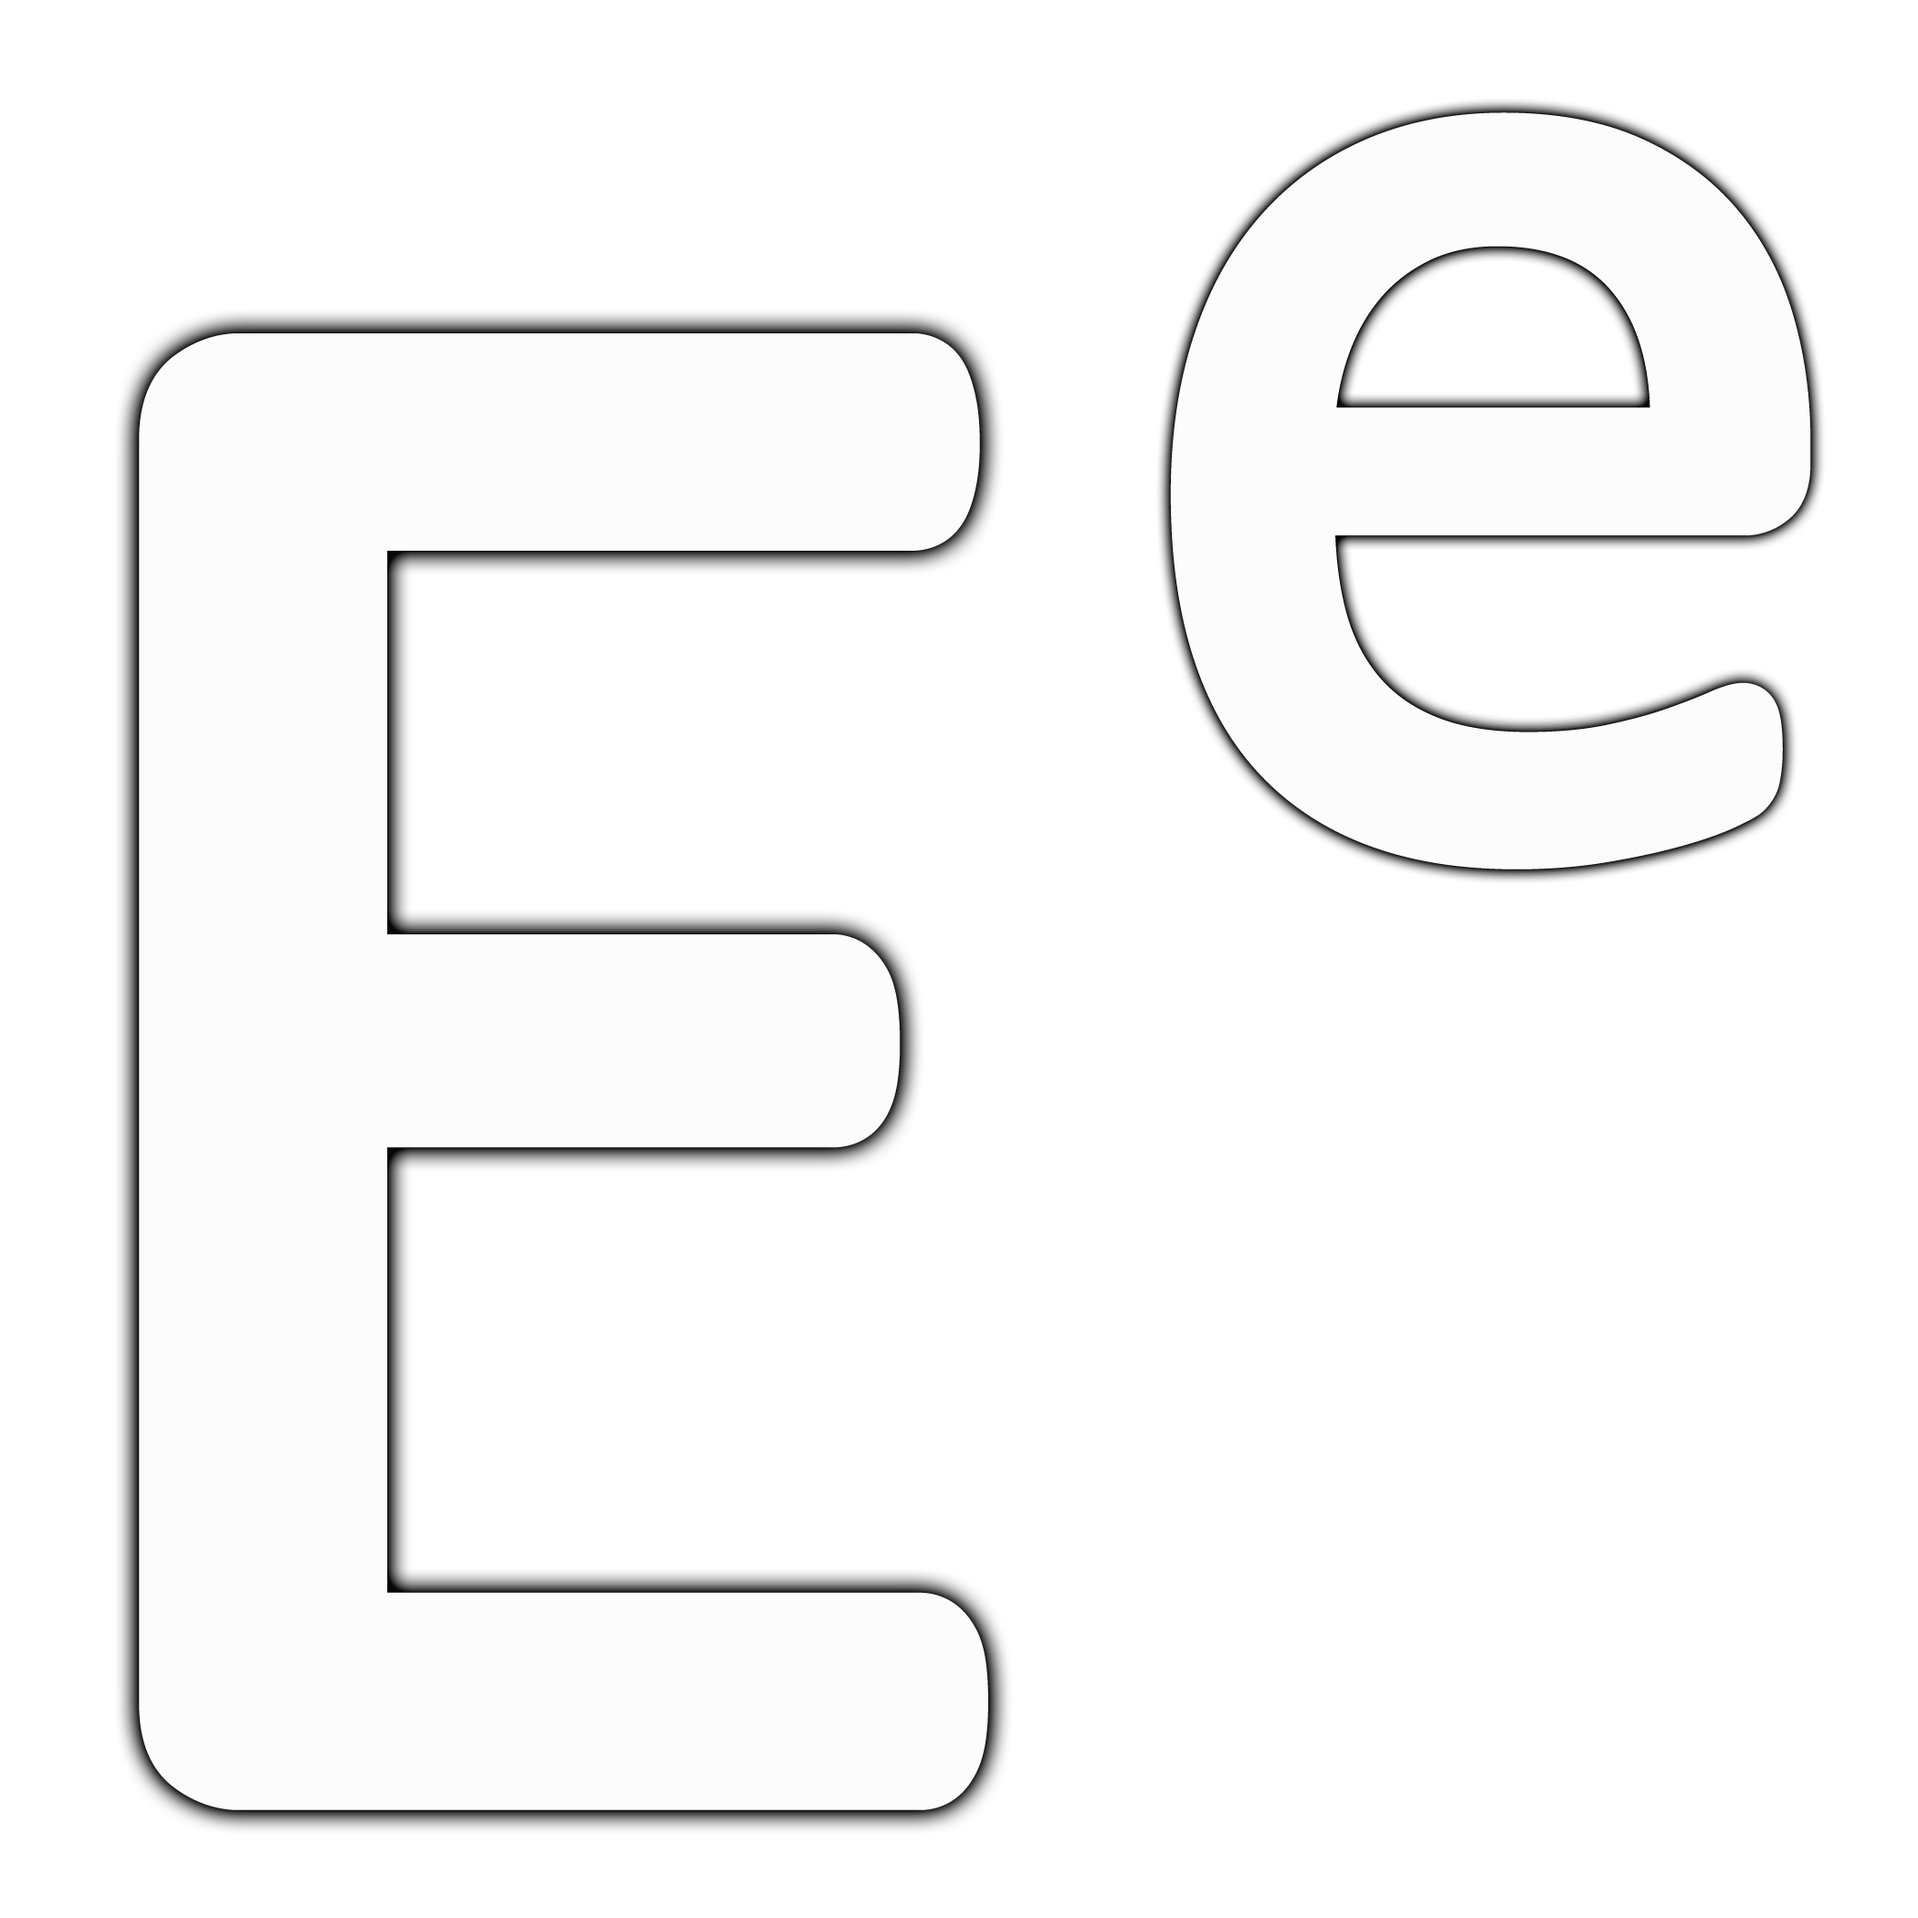
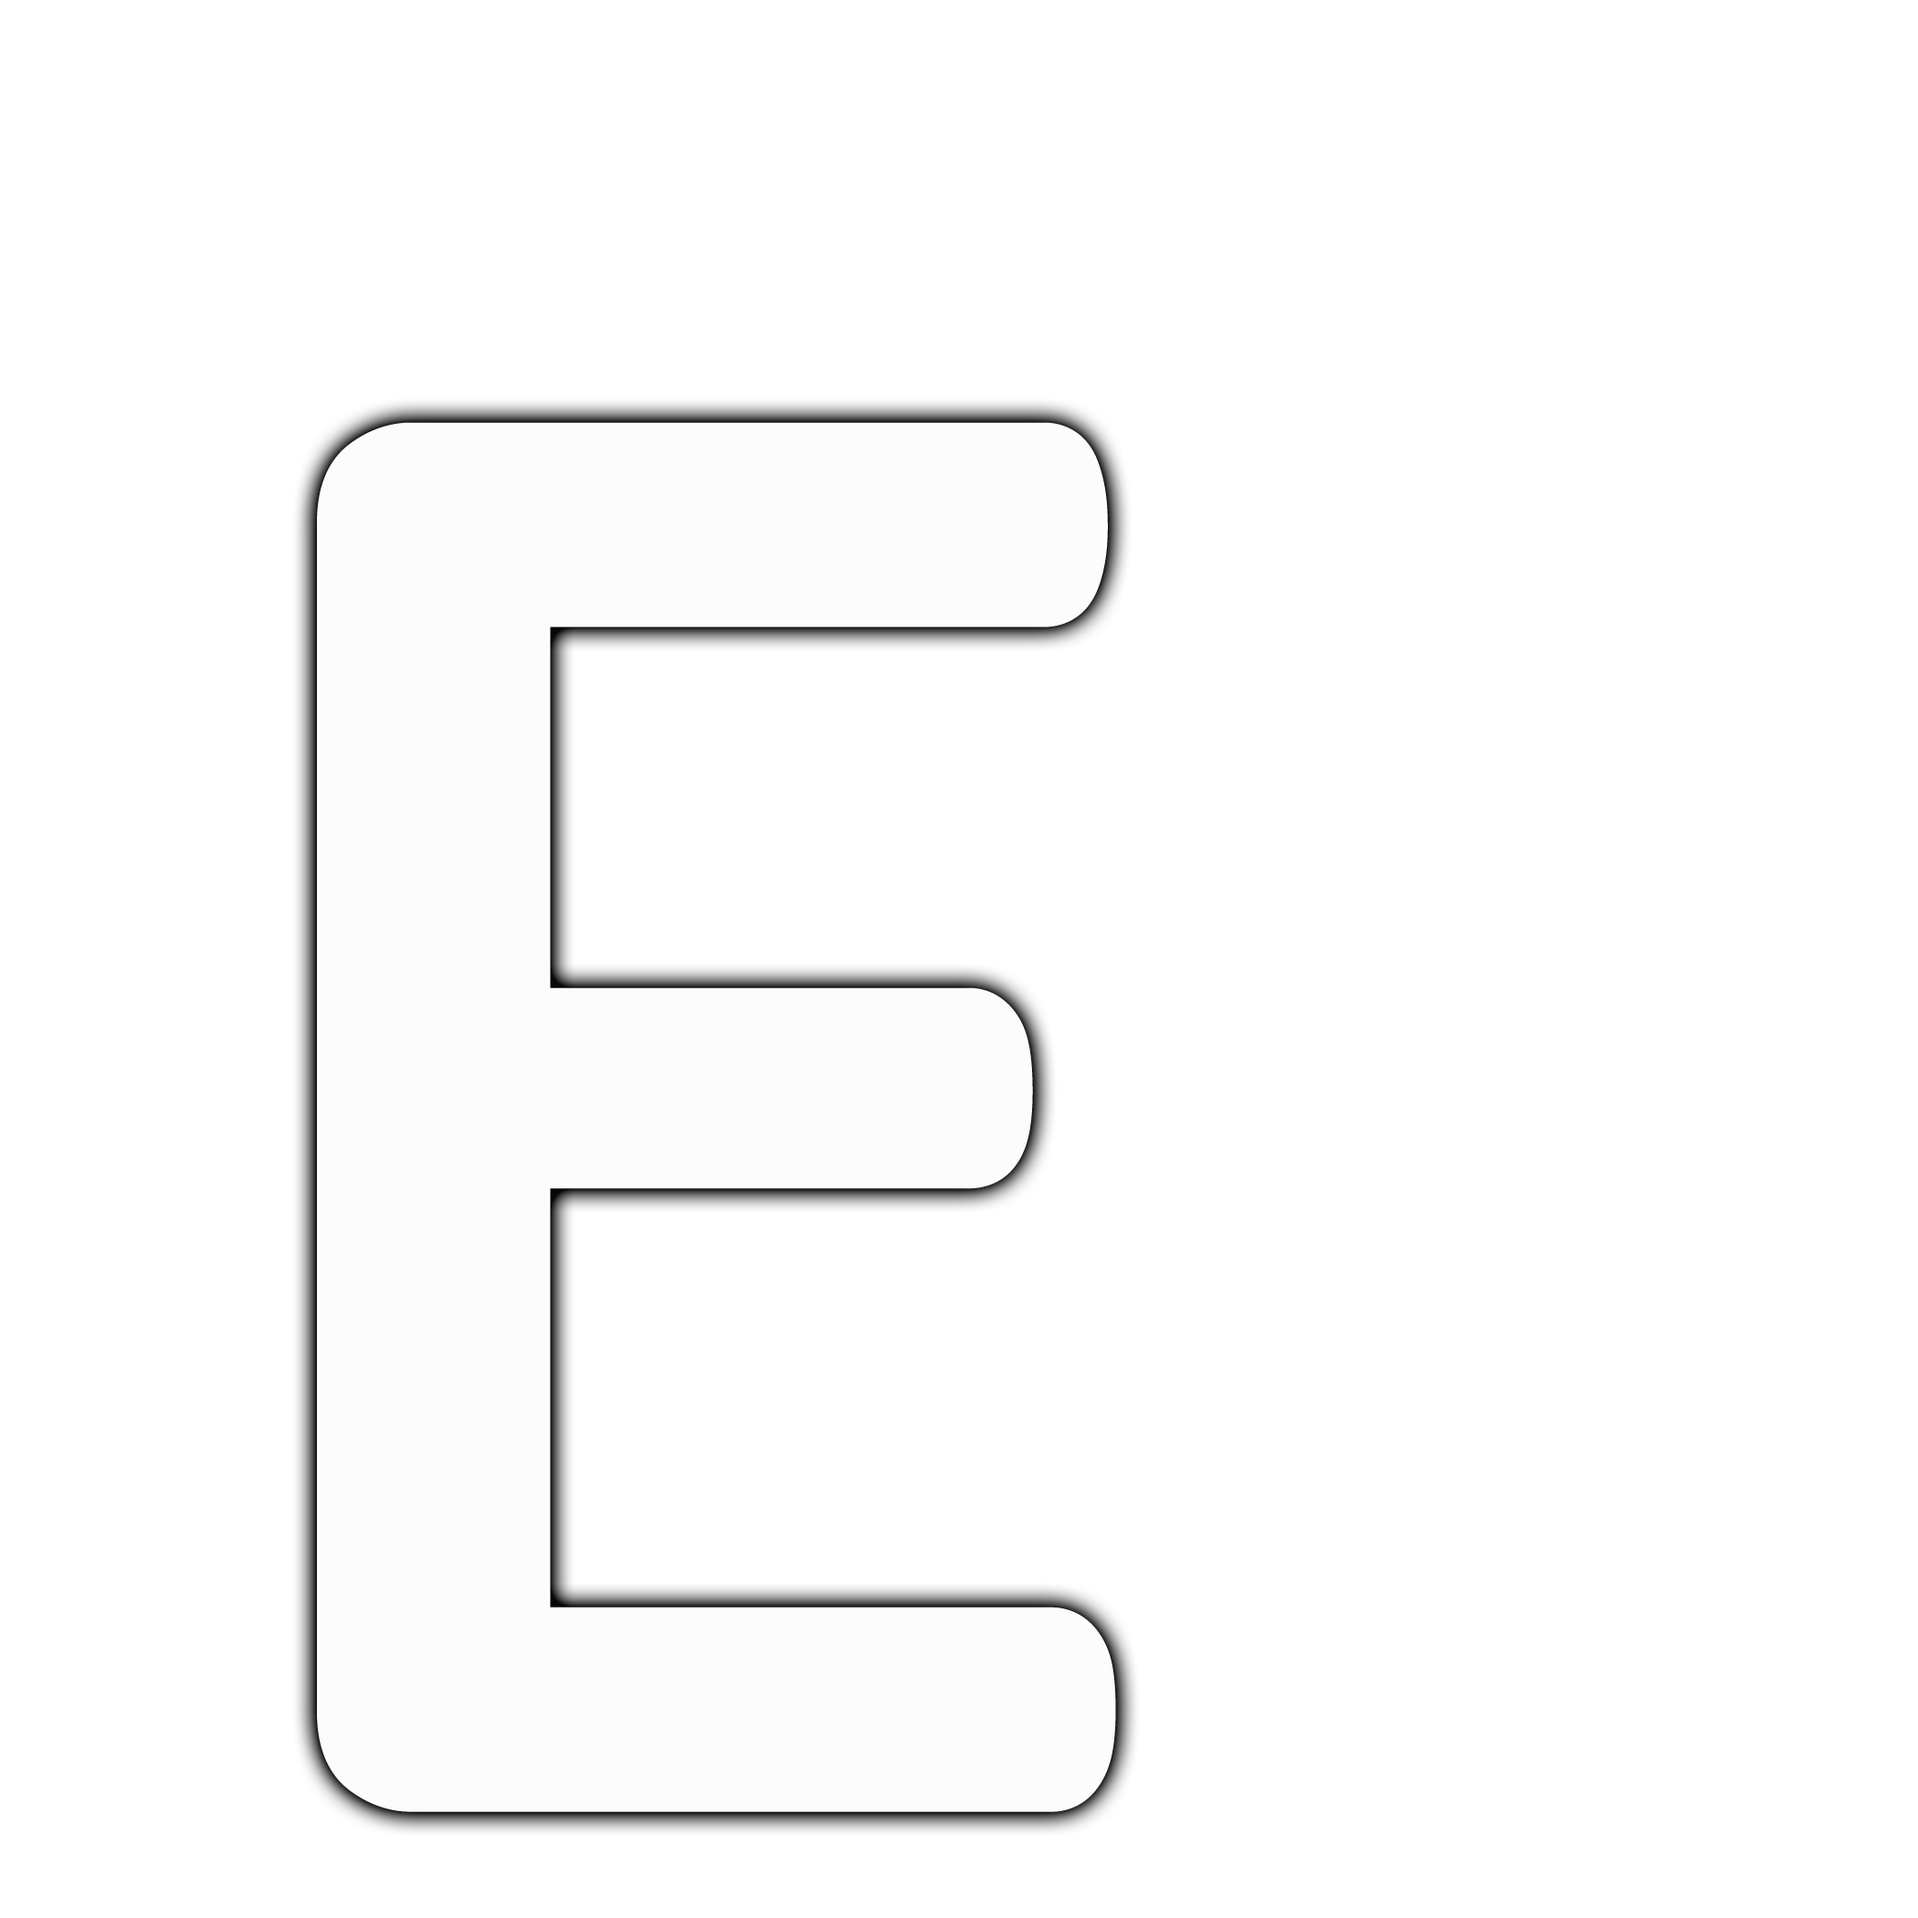
programado la funcion boton siguiente en vocales

diff --git a/vocales.php b/vocales.php
@@ -26,10 +26,11 @@
         <div class="row cuerpo1">
             <div class="col-md-5 col-xs-12 vocal">
                 <div class="tam_miniatura">
-                    <p class="view_vocal">a</p>
+                    <p class="view_vocal" id="vocalActual">a</p>
                 </div>
+                <!-- VOCAL CENTRO -->
                 <div class="espacioVocales">
-                    <a href="#" > <img class="img-responsive"  src="img/vocales/a.png"> </a> 
+                    <!--<a href="#" > <img class="img-responsive"  src="img/vocales/a.png"> </a> -->
                 </div>
 
                 <div class="botones">
@@ -52,33 +53,28 @@
         });
         var productos;
         function listar(){
-                __ajax("prueba1Listar.php", "")
+                __ajax("bd/prueba1Listar.php", "")
                 .done(function(info){                
                      productos = JSON.parse(info); //cambiarlo por curso despues                             
                 });            
         }            
        
         //INICIALIZACION
-        $(".siguiente").html("<a href='#' onClick='siguientes()' > <img class='img-responsive img-circle' src='img/frutas/manzanaVerde.png'> </a>");
+        $(".espacioVocales").html("<a href='#' > <img class='img-responsive' src='img/vocales/a.png'> </a>");
         //INICIO DE CONDICIONES PARA IR CAMBIANDO IMAGENES
        
-        function siguientes(){ 
-            var prueba = document.getElementById("titulos").innerHTML ; //obtengo el valor del texto de la etiqueta para se comparado                                                        
+        function sigVocal(){ 
+            var vocal = document.getElementById("vocalActual").innerHTML ; //obtengo el valor del texto de la etiqueta para se comparado                                                        
             //FRUTA 2
-            if(prueba=="Manzana Roja"){                                                                                                
+            if(vocal=="a"){                                                                                                
                 for(var i in productos.data){                                          
                     var nom = new Array();                                                           
                     nom= [productos.data[i].idImagenes];                                                                                                                   
-                    if(nom==2){                                                             
+                    if(nom==13){                                                             
                         var x=(productos.data[i].nombreImagen);                                                           
-                        $("#titulos").html(x);//SobreEscribe NuevoNombre 
+                        $(".view_vocal").html(x);//SobreEscribe NuevoNombre 
                         //SobrePone ImagenNuevo
-                        $("#fruta").html("<a href='#' onmousedown='voz2.play()'> <img class='img-responsive img-circle' src='img/frutas/manzanaVerde.png'> </a>");
-                        //SobrePone imagen View Minieatura
-                        $(".siguiente").html("<a href='#' onClick='siguientes()' > <img class='img-responsive img-circle' src='img/frutas/Papaya.png'> </a>");
-                        //var frutNex = "Abecedarios";
-                        //$("#cambiar").html(frutNex);                      
-                        $(".anterior").html("<a href='#' > <img class='img-responsive img-circle' src='img/frutas/manzana_roja.png'> </a>");
+                        $(".espacioVocales").html("<a href='#'> <img class='img-responsive' src='img/vocales/e.png'> </a>");                                                                     
                     }                                                                                                 
                 }                                                                                                                                  
             } 

diff --git a/frutas.php b/frutas.php
@@ -71,7 +71,7 @@
         });
         var productos;
         function listar(){
-                __ajax("prueba1Listar.php", "")
+                __ajax("bd/prueba1Listar.php", "")
                 .done(function(info){                
                      productos = JSON.parse(info); //cambiarlo por curso despues                             
                 });            
